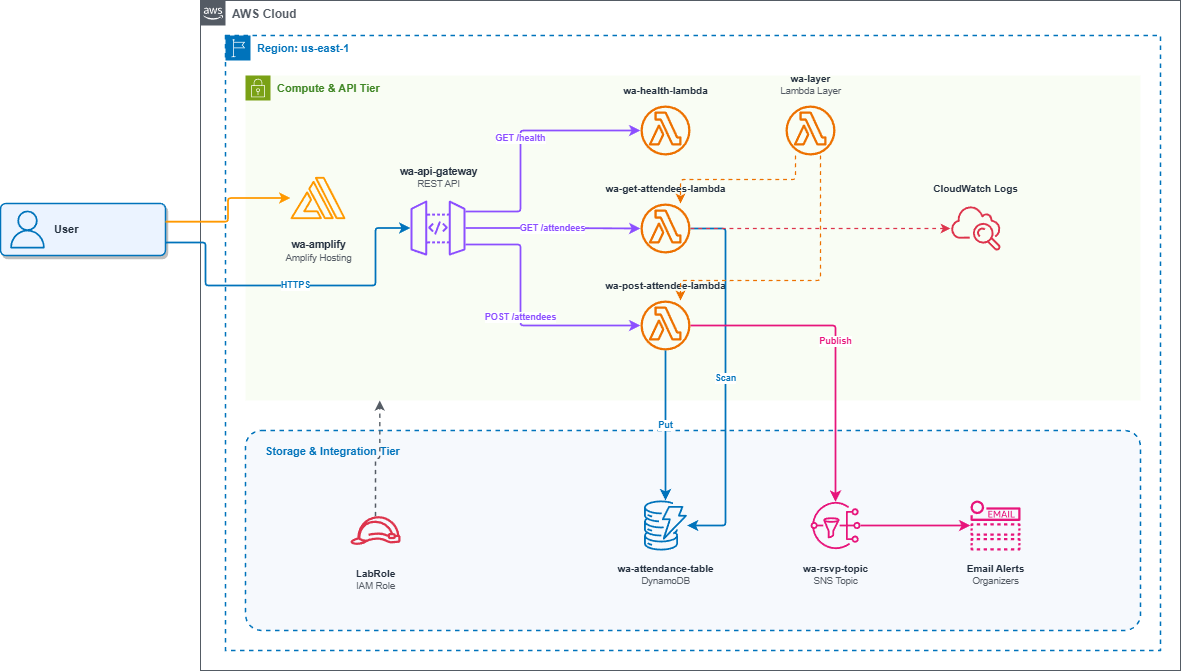
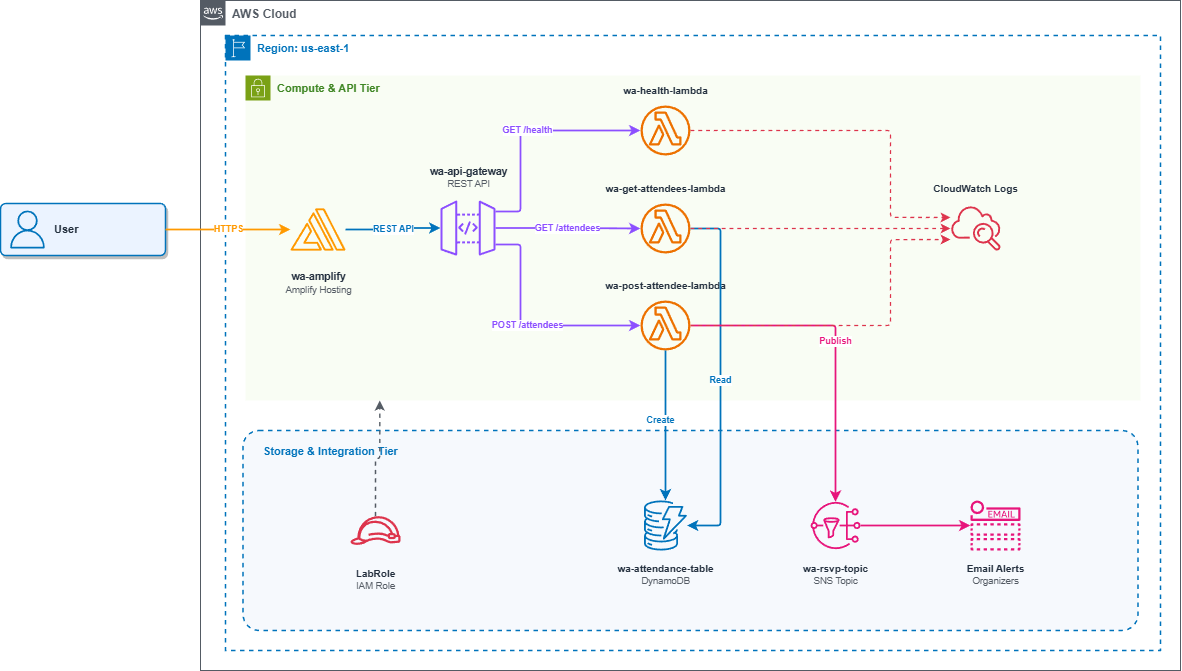
feat(architecture): polish ingress alignment, export diagram PNG, and document lambda package specs

diff --git a/backend/post-attendee/README.md b/backend/post-attendee/README.md
@@ -16,6 +16,7 @@ Validates guest RSVP payloads, generates a unique ticket ID (`WA-XXXXXX`), write
 | **Timeout** | `10 seconds` | Accommodates DynamoDB write + SNS publish network roundtrips |
 | **Execution Role** | `LabRole` | Must have DynamoDB write and SNS publish permissions |
 | **Attached Layer** | `wa-layer` | Required for DynamoDB SDK & `@aws-sdk/client-sns` |
+| **Attached Package** | `package.json` | Input the package with `index.js` in lambda explorer for Node.js runtime |
 
 ---
 

diff --git a/backend/get-attendees/README.md b/backend/get-attendees/README.md
@@ -16,6 +16,7 @@ Reads confirmed wedding attendees from Amazon DynamoDB, computes live attendance
 | **Timeout** | `10 seconds` | Accommodates DynamoDB network latency & cold starts |
 | **Execution Role** | `LabRole` | Must have DynamoDB read permissions |
 | **Attached Layer** | `wa-layer` | Required for `@aws-sdk/client-dynamodb` & `@aws-sdk/lib-dynamodb` |
+| **Attached Package** | `package.json` | Input the package with `index.js` in lambda explorer for Node.js runtime |
 
 ---
 

diff --git a/backend/health/README.md b/backend/health/README.md
@@ -17,6 +17,7 @@ A lightweight, zero-dependency health check probe executed on API Gateway `GET /
 | **Execution Role** | `LabRole` | Pre-configured AWS Academy role |
 | **Attached Layer** | *None* | Zero external dependencies (uses native Node.js) |
 | **Environment Variables** | *None* | No custom variables needed |
+| **Attached Package** | `package.json` | Input the package with `index.js` in lambda explorer for Node.js runtime |
 
 ---
 
